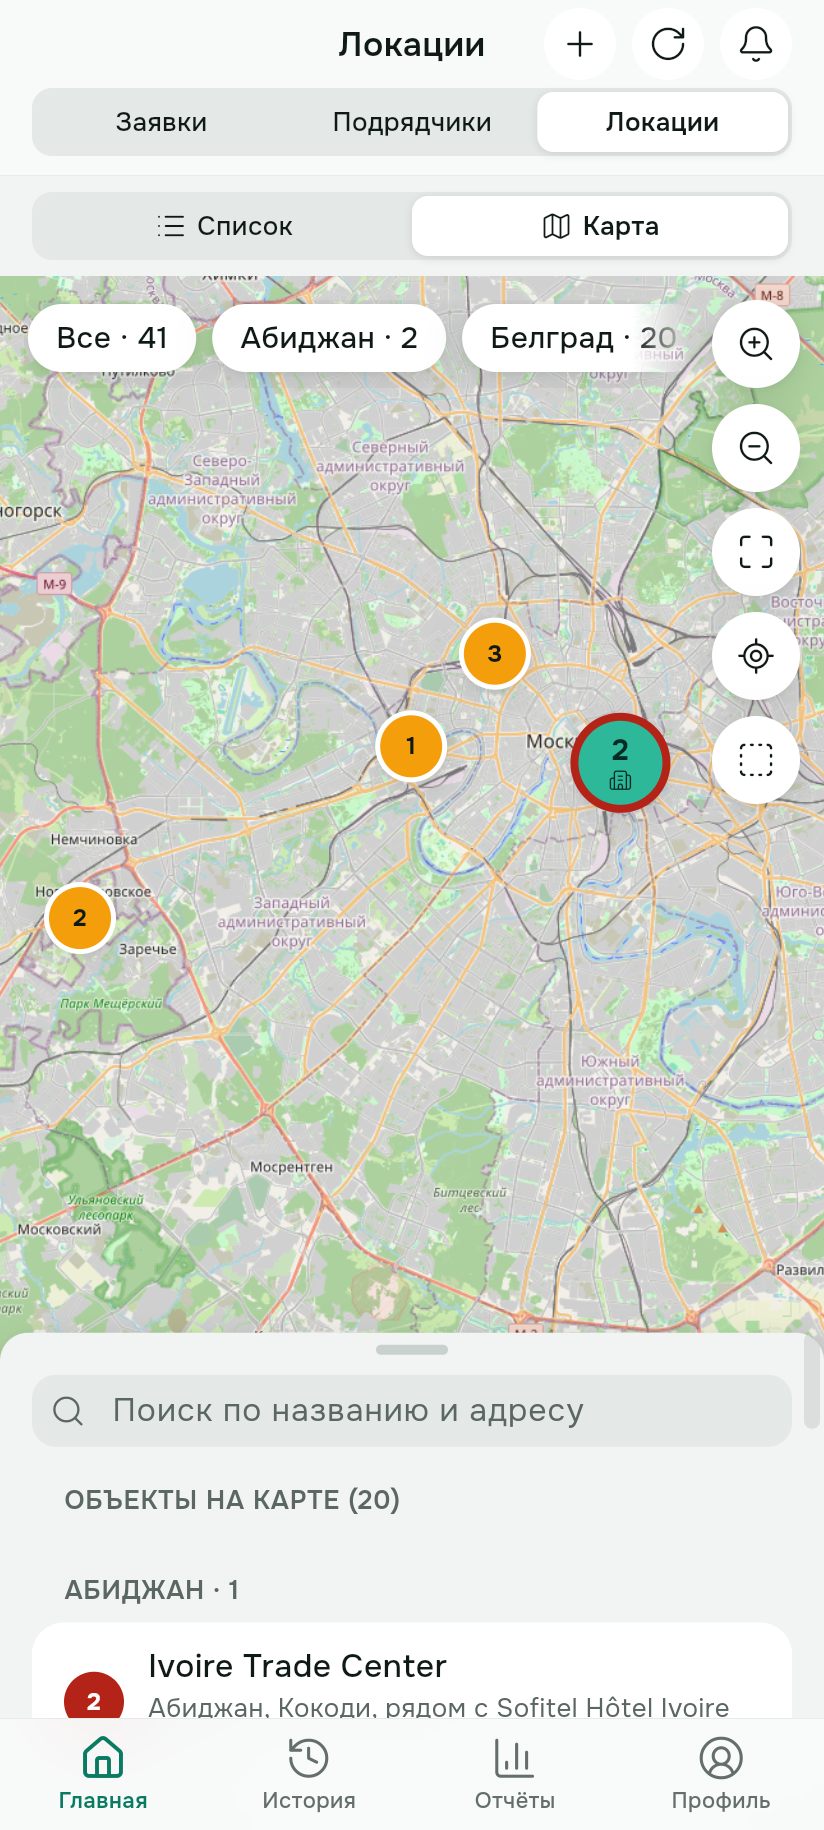
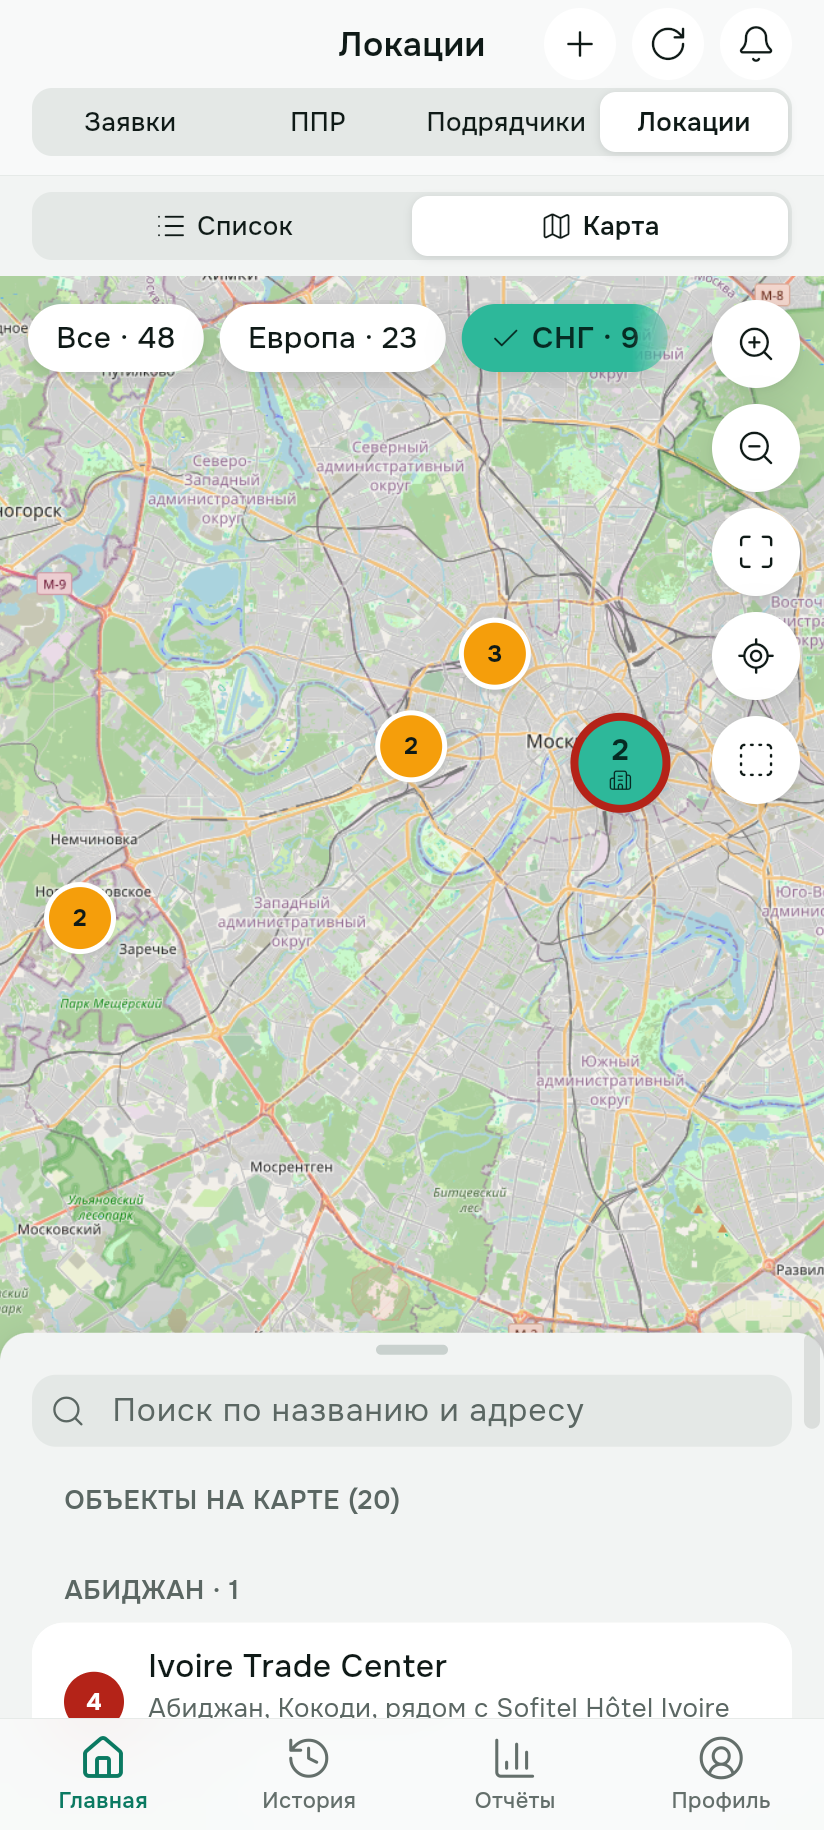
Шаг 19 (D): кадры питча 13–17 (рабочая база), 01–03 и 05–12 пересняты; PDF — нажатие мышью и текст консоли при ошибке

diff --git a/docs/screens/pitch/README.md b/docs/screens/pitch/README.md
@@ -14,7 +14,7 @@
 | 6 | [06-floor-plan-desktop.png](06-floor-plan-desktop.png) | План этажа на ПК целиком (из заявки «Показать на плане»): кондиционер серверной с просроченной заявкой — красный ореол, увеличен, подпись полужирная; цвета маркеров — по статусу, у оборудования — бейдж числа заявок. Первые 4 с вокруг маркера идут волны — см. `docs/screens/latest/manager-1280-plan-from-order.png` | Здание на одном экране: маркеры цвета статуса, просроченное не пропустить |
 | 7 | [07-floor-plan-marker-phone.png](07-floor-plan-marker-phone.png) | План на телефоне, шторка «Кондиционер серверной»: просроченная заявка, «Создать заявку здесь» | Заявка привязана к месту — от точки на плане до исполнителя |
 | 8 | [08-world-map-desktop.png](08-world-map-desktop.png) | Карта мира: 20 объектов в 7 городах, кластеры по городам, цвет — по самой тревожной заявке | Один сервис для портфеля объектов: Белград, Москва, Дубай, Стамбул, Абиджан, Китай |
-| 9 | [09-moscow-map-phone.png](09-moscow-map-phone.png) | Карта Москвы на телефоне: 5 офисов, число открытых заявок на маркерах | Региональный менеджер видит свой город целиком |
+| 9 | [09-moscow-map-phone.png](09-moscow-map-phone.png) | Карта Москвы на телефоне (чип региона «СНГ · 9» — после 0015 над картой регионы, а не города): 5 офисов, число открытых заявок на маркерах | Региональный менеджер видит свой город целиком |
 | 10 | [10-reports-desktop.png](10-reports-desktop.png) | Отчёт по подрядчикам за 30 дней: визиты по геозоне, время, доля в срок, приёмка с первого раза | Контроль подрядчиков цифрами, а не на слово |
 | 11 | [11-contractor-card-desktop.png](11-contractor-card-desktop.png) | Карточка подрядчика «Huaxin FM»: виды работ, объекты по городам (Шэньчжэнь, Пекин) с нормой визитов, «Заявки подрядчика» | Кто за что отвечает — закрепления по слоям и объектам |
 | 12 | [12-home-desktop.png](12-home-desktop.png) | Главная на ПК: левое меню, «Эй, Helpy», служебные кнопки, RU / EN, уведомления | Рабочее место диспетчера: то же приложение на ПК и телефоне, два языка |
@@ -25,4 +25,6 @@
 | 17 | [17-crew-zone-desktop.png](17-crew-zone-desktop.png) | Бригада «Пекин» подрядчика Huaxin FM: зона «Все системы · Пекин (1 объект)» | Доступ режется по месту и системе — в базе, а не в интерфейсе |
 
 Кадры 13–17 сняты 11 октября 2026 на рабочей базе после миграций 0015 и 0016. ⚠ Кадр 17 — зона **бригады**, а не менеджера: в рабочей базе один менеджер (он администратор), второго нет, а «Зона доступа» открывается только у другого менеджера. Тот же редактор правил «системы × места»; кадр «Зона доступа» менеджера Москвы — в видео `docs/demo/hey-helpy-demo.mp4` (локальная база). Когда в компании появится второй менеджер — переснять: `--pitch --only=17` после замены `crew-zone` на экран зоны.
+
+⚠ 11 октября пересняты кадры 01–03 и 05–17. **Кадр 04 оставлен прежним** (шаг 15, настоящий разбор YandexGPT): 11 октября YandexGPT три раза подряд не ответил за 8 с (лог `voice-intake`: 502 `timeout`), приложение откатилось на разбор по словарю — снимать «Разобрано по словарю» вместо «Разобрано ИИ» для слайда не стали. Переснять, когда ИИ отвечает: `--pitch --only=04`.
 
